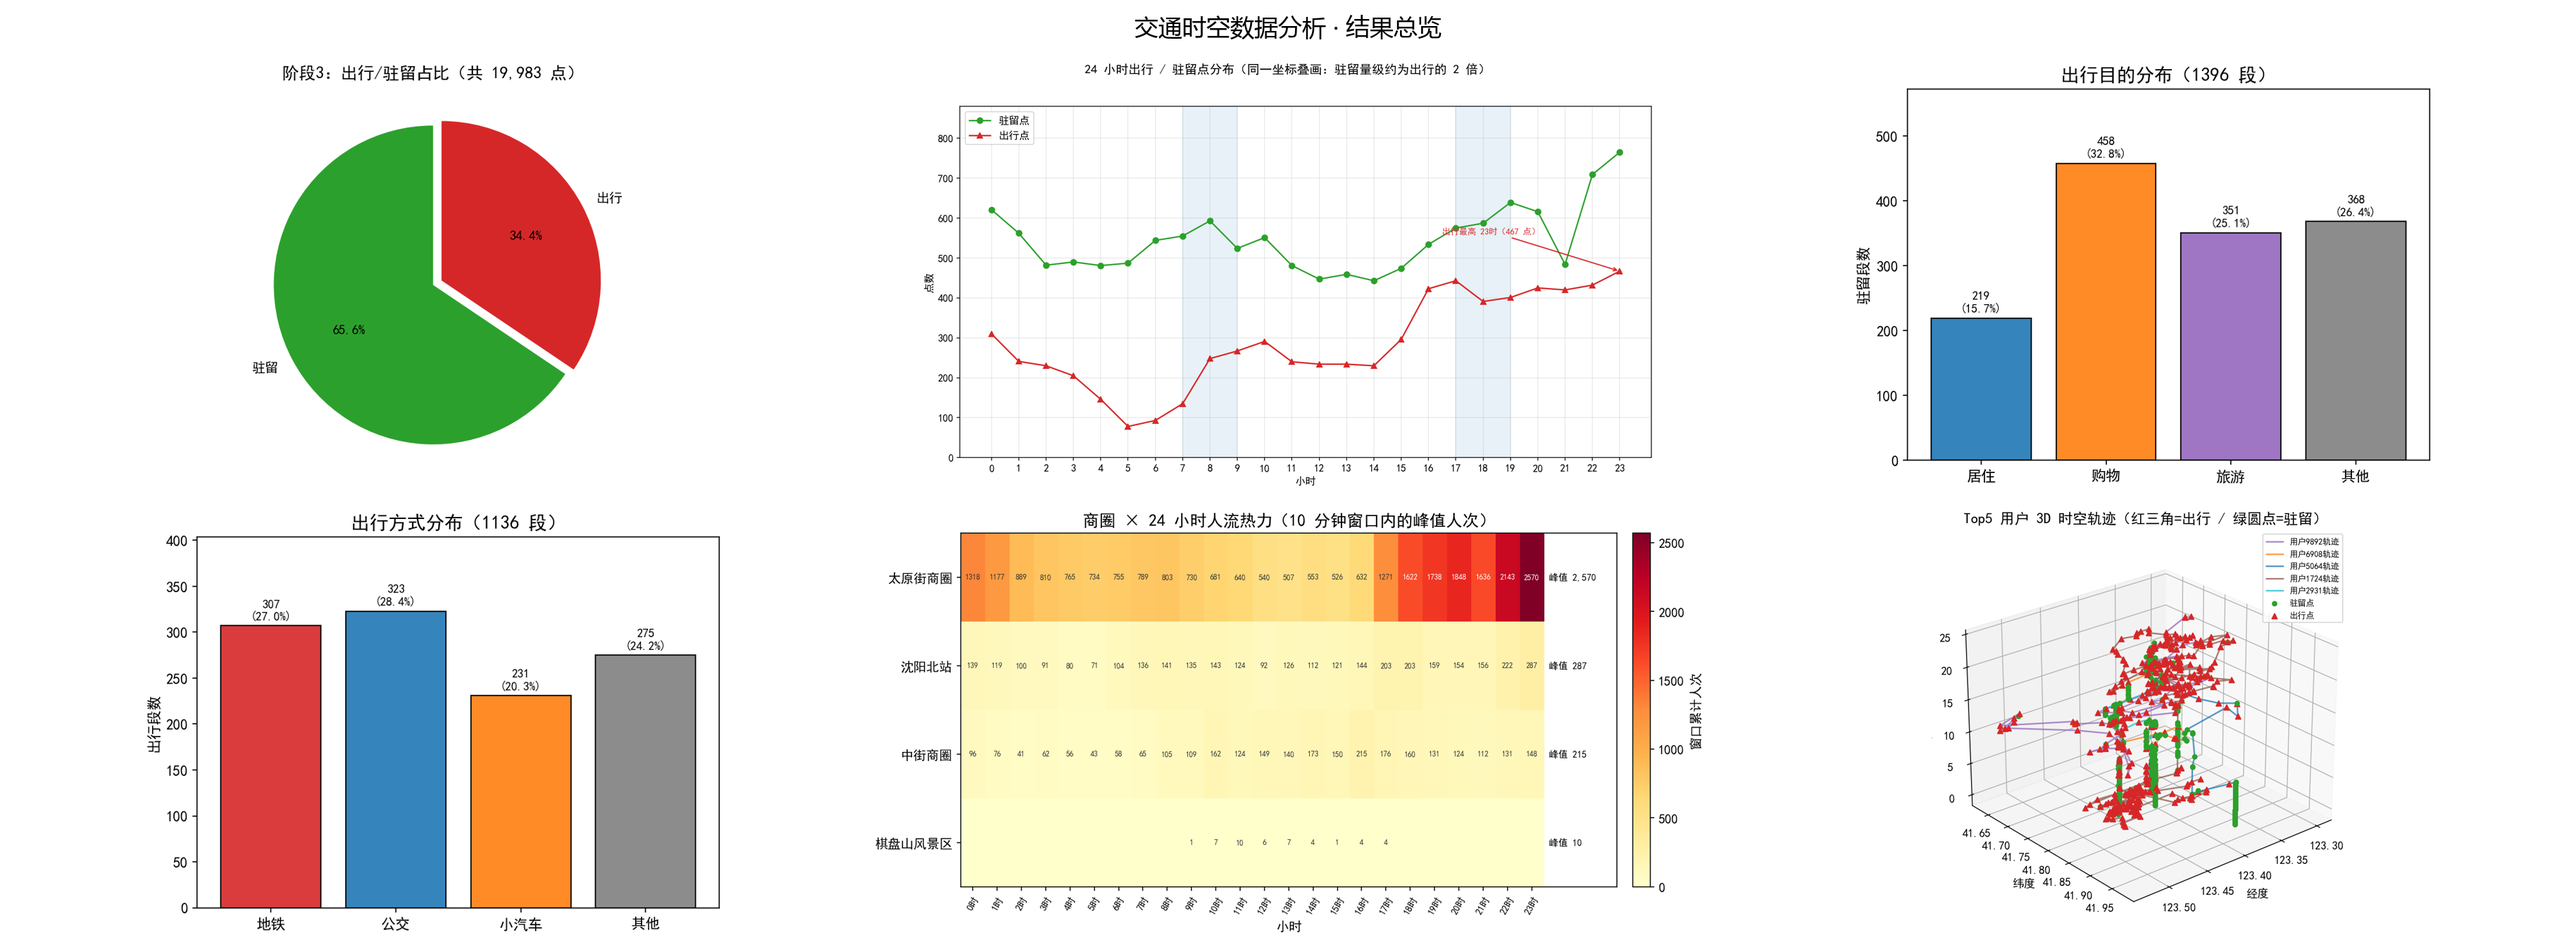
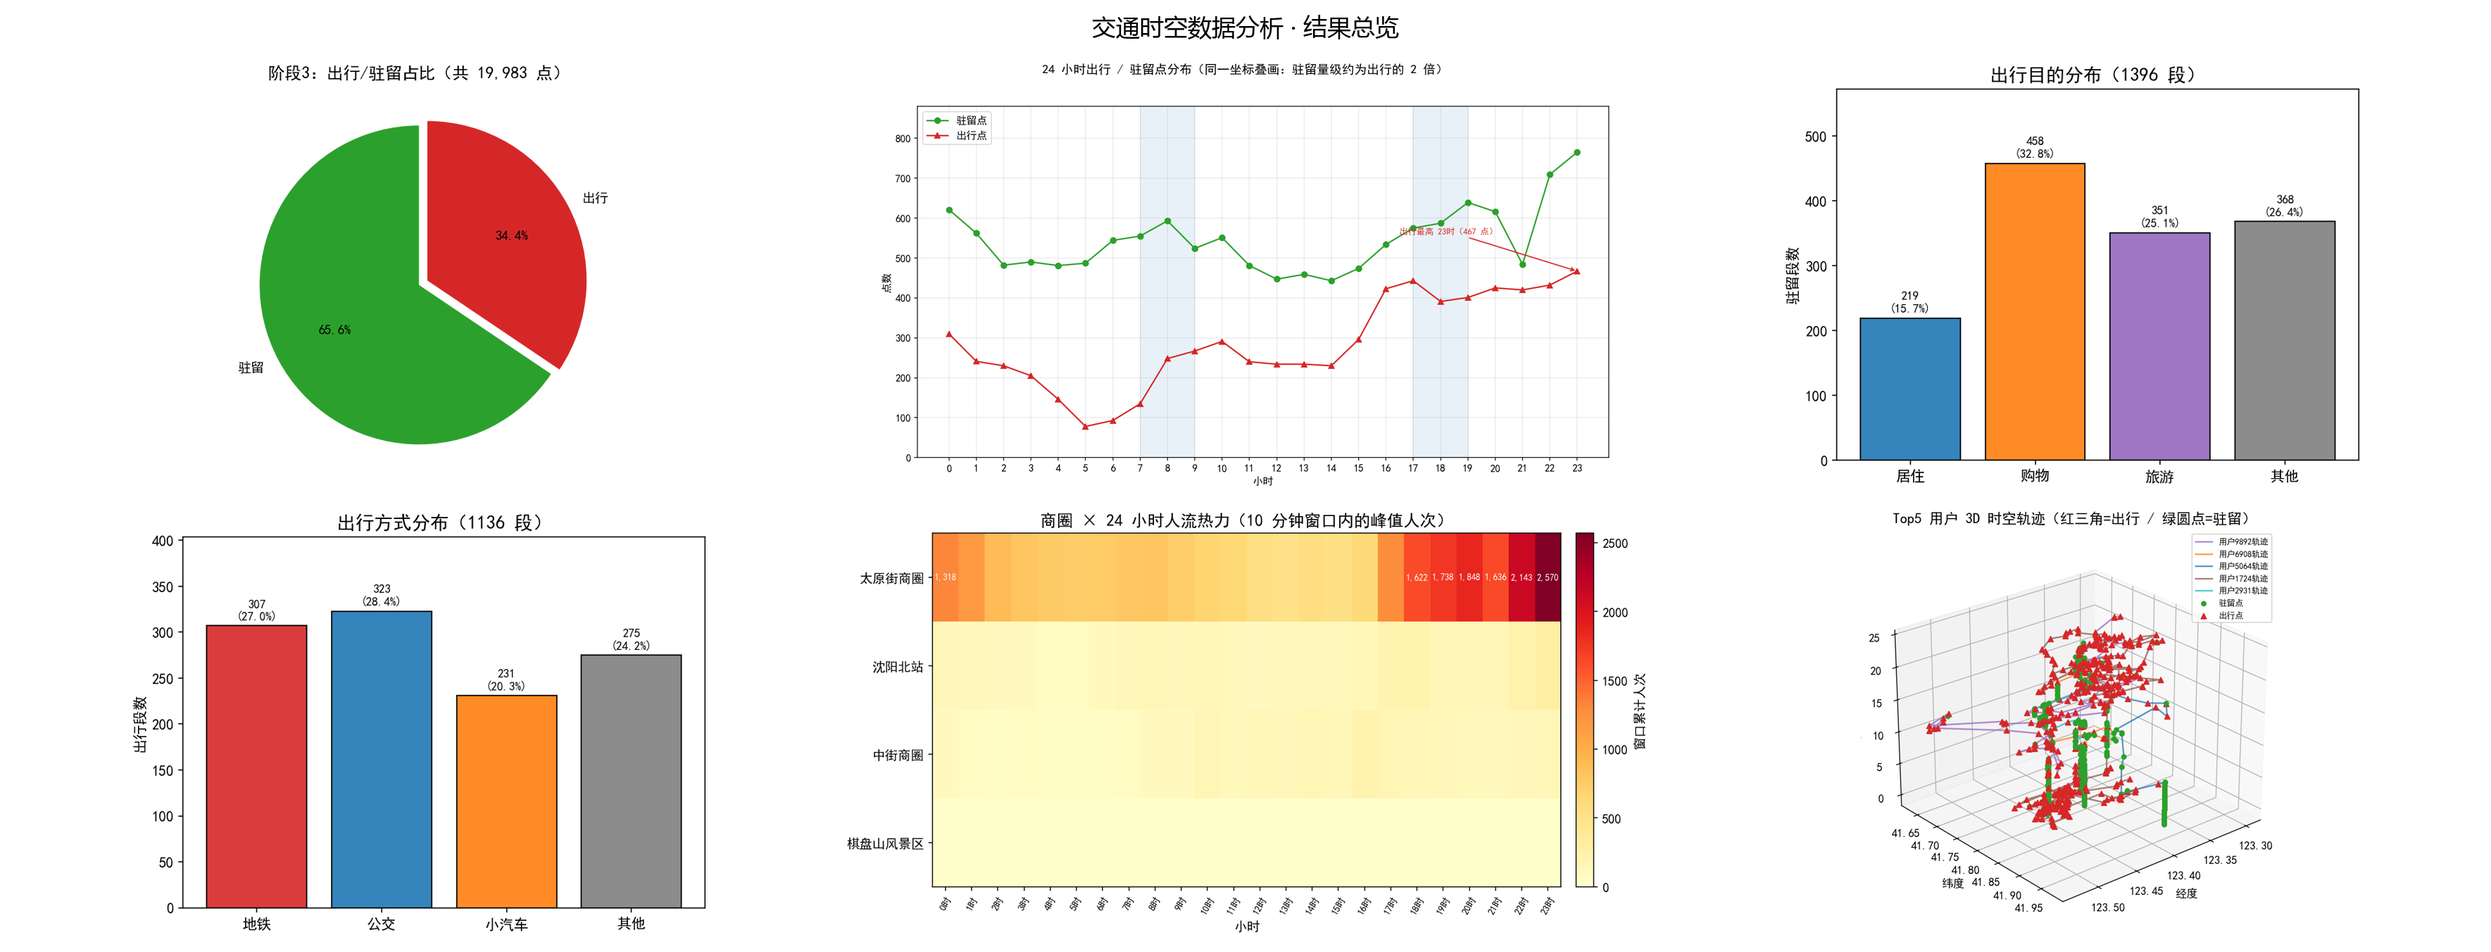
fix(图5): 去掉行尾「峰值 X」标注列与它撑出的右侧留白
那列文字把 xlim 撑到 26.5，矩阵右边拉出一条没有内容的白边；老师示例图两者都没有。
同时数字改为只写深色格（>= 全表最大值一半），与示例一致——原先每个非空格都标，
棋盘山行里 7 个位数会把视线引向本来没有人流的地方。色标口径（绝对人次）未动。

diff --git a/visualize.py b/visualize.py
@@ -36,6 +36,7 @@ PURPOSE_COLORS = {"居住": BLUE, "购物": ORANGE, "旅游": PURPLE, "其他": 
 MODE_COLORS = {"地铁": RED, "公交": BLUE, "小汽车": ORANGE, "其他": GRAY}
 SCATTER_3D_TOP = 5          # 3D 轨迹画点数最多的前 5 个用户
 HEATMAP_TOP = 10            # 热力矩阵取峰值最高的前 10 个商圈
+HEATMAP_LABEL_RATIO = 0.5   # 只在 >= 全表最大值一半的格子里写数字（示例图的画法）
 # 3D 轨迹的连线配色：五个人的线要能一眼分开，且不能和「红=出行、绿=驻留」撞色
 USER_COLORS = ["#9467bd", "#ff7f0e", "#1f77b4", "#8c564b", "#17becf"]
 
@@ -145,8 +146,11 @@ def plot_heatmap(heat_df):
     窗口计数取该小时内的峰值：一小时内有 60 个十分钟窗口，取最大那个代表这一小时最挤的程度。
     色标用的是**真实人次**而不是每行各自的最大值。之前按行归一化能把每个商圈的日内起伏都
     看清，但代价是棋盘山（峰值 10）和中街（峰值 215）会画得和太原街（峰值 2570）一样红，
-    读者按颜色估人数会高估十几倍。示例图同样是绝对刻度，这里跟过来更诚实；
-    小商圈看不出的起伏，用每格里的数字标签补回。
+    读者按颜色估人数会高估十几倍。示例图同样是绝对刻度，这里跟过来更诚实。
+
+    数字只写深色格（>= 全表最大值一半），与示例一致。之前每个非空格都标一遍，
+    棋盘山那行 7 个位数会把人眼引到本来没有人流的地方；行尾另起一列「峰值 X」更是
+    把 xlim 撑到 26.5、在矩阵右边拉出一条再没有内容的白边，示例图两者都没有。
     """
     t = pd.to_datetime(heat_df["time"])
     df = heat_df.assign(hour=t.dt.hour).dropna(subset=["hour"])
@@ -156,18 +160,19 @@ def plot_heatmap(heat_df):
     M = pivot.loc[top.index]
 
     values = M.to_numpy(dtype=float)
-    fig, ax = plt.subplots(figsize=(12, 1 + 1.1 * len(M)))
+    vmax = values.max()
+    fig, ax = plt.subplots(figsize=(11.5, 1 + 1.1 * len(M)))
     im = ax.imshow(values, aspect="auto", cmap="YlOrRd",
-                   vmin=0, vmax=values.max())
+                   vmin=0, vmax=vmax)
     ax.set_xticks(range(24), [f"{h}时" for h in range(24)], fontsize=8, rotation=60)
     ax.set_yticks(range(len(M)), M.index)
     for i, row in enumerate(values):
         for j, v in enumerate(row):
-            if v > 0:
-                ax.text(j, i, int(v), ha="center", va="center", fontsize=6.5,
-                        color="white" if v > values.max() * .6 else "#333333")
-        ax.text(23.7, i, f"峰值 {int(row.max()):,}", va="center", fontsize=8)
-    ax.set_xlim(-0.5, 26.5)
+            if v >= vmax * HEATMAP_LABEL_RATIO:
+                ax.text(j, i, f"{int(v):,}", ha="center", va="center",
+                        fontsize=7.5, color="white")
+    ax.set_xlim(-0.5, 23.5)
+    ax.set_ylim(len(M) - 0.5, -0.5)
     ax.set_xlabel("小时")
     ax.set_title(f"商圈 × 24 小时人流热力（{config.HEATMAP_WINDOW_SIZE} 分钟窗口内的峰值人次）")
     fig.colorbar(im, ax=ax, label="窗口累计人次", pad=0.02)
